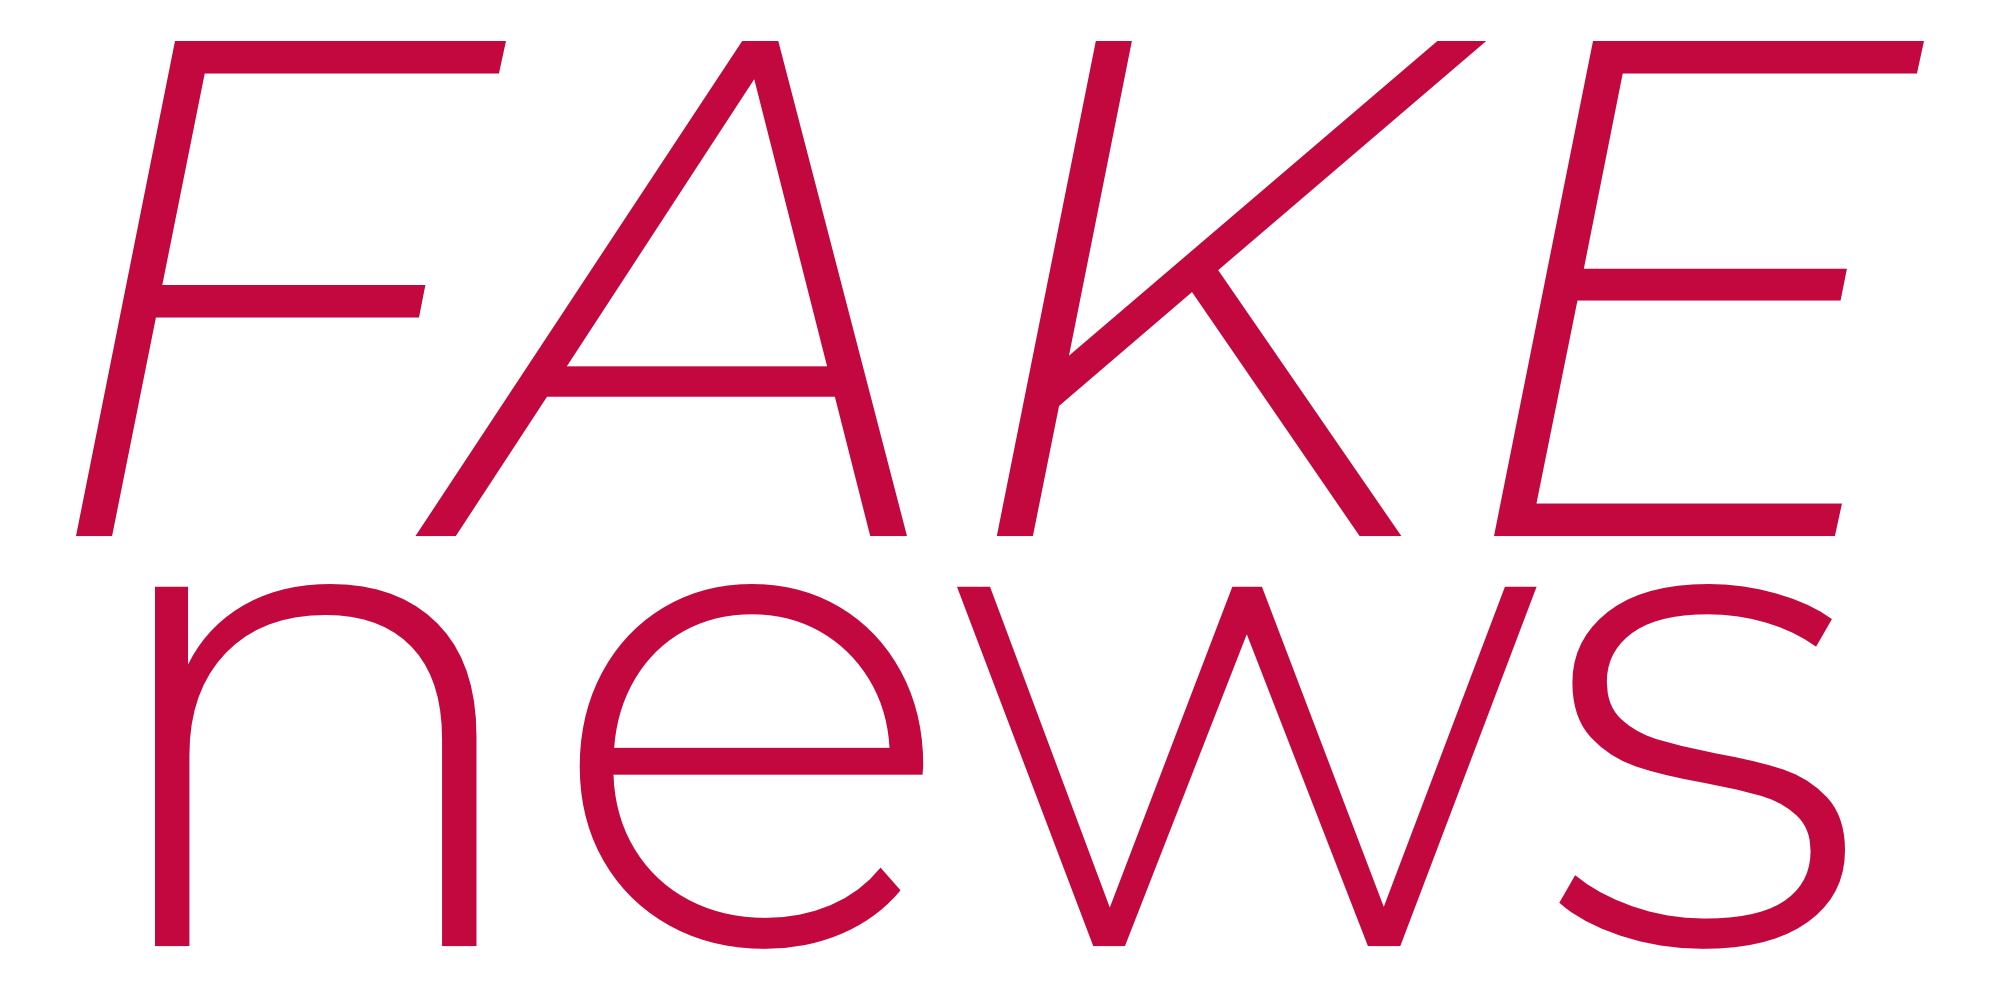
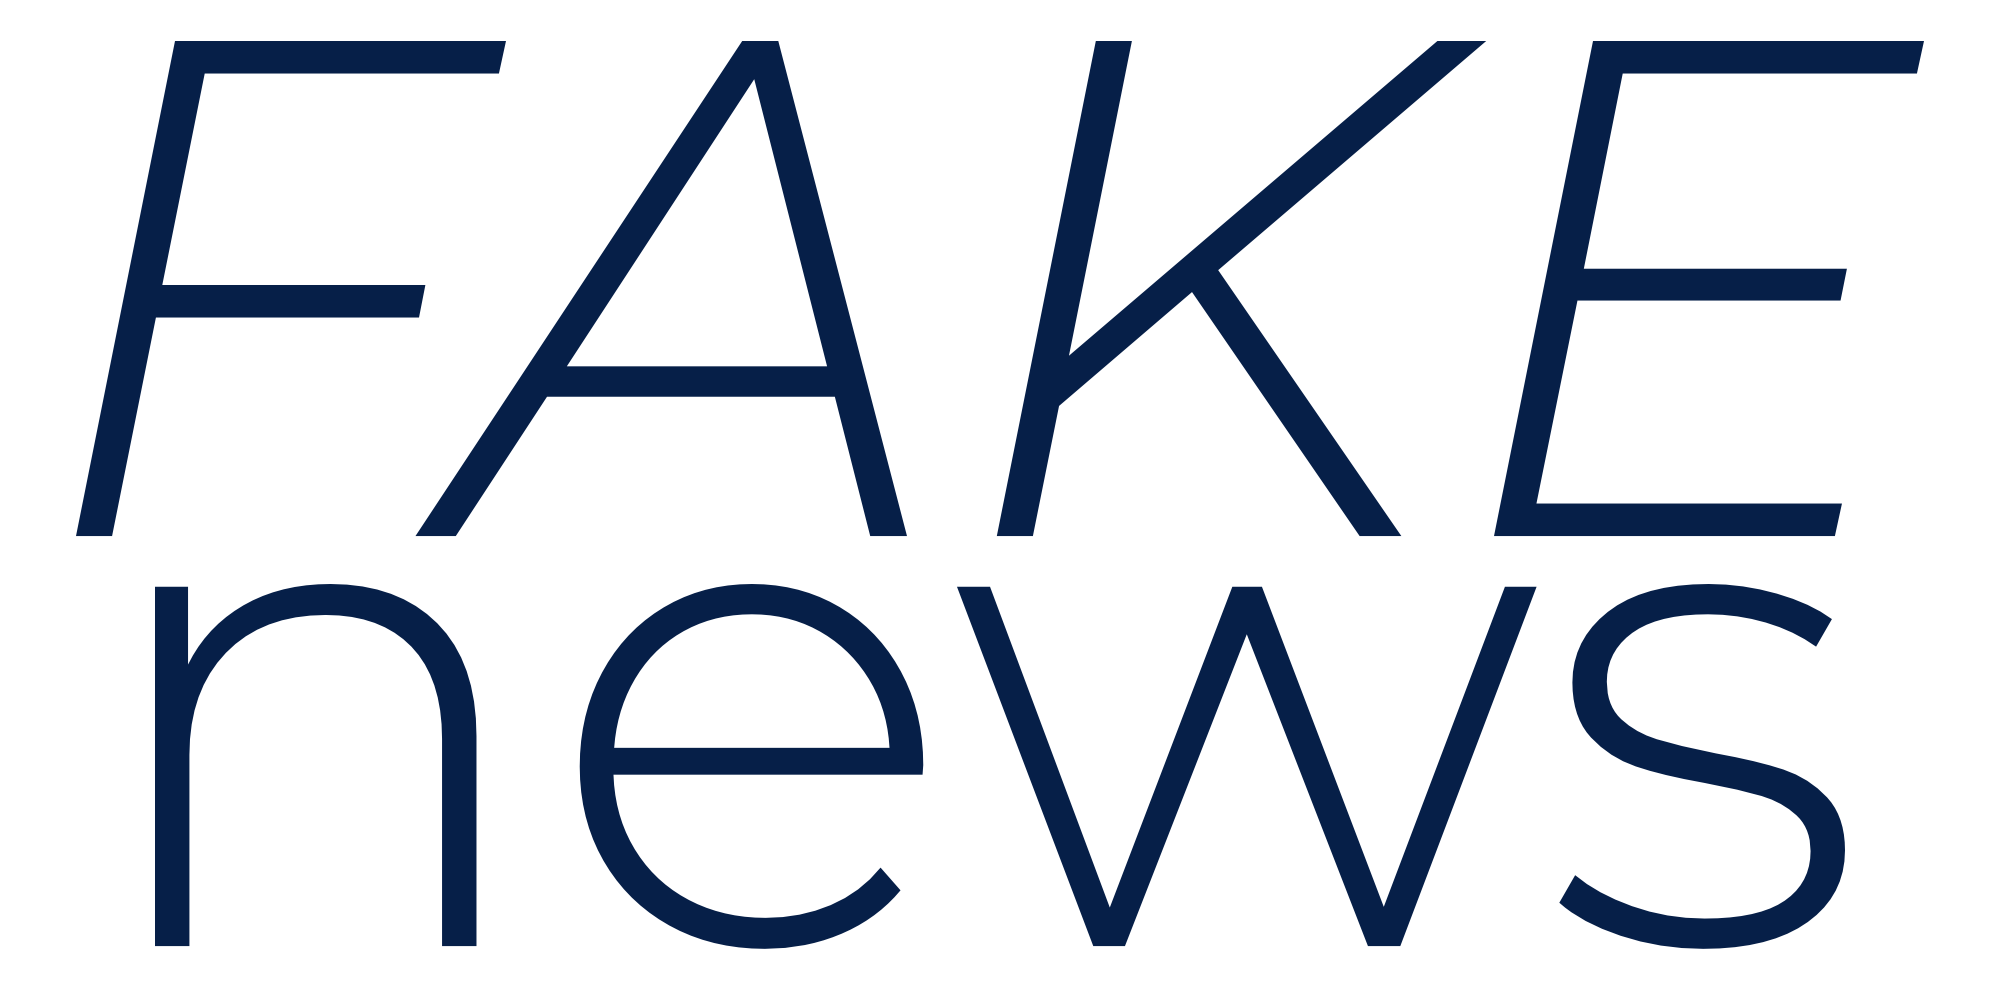
2

diff --git a/about.html b/about.html
@@ -6,7 +6,7 @@
 <title>About | Fake News</title>
 <style type = "text/css">
 
-p {color:#fff;}
+p {color:#061f48;}
 
 </style>
 
@@ -15,56 +15,58 @@ p {color:#fff;}
 <link rel="stylesheet" href="https://fonts.google.com/specimen/Hind?preview.text_type=custom&preview.size=36#standard-styles">
 
 <style>
-  h1 {text-align: left;}
-  h2 {
-    text-align: left;
-    font-family: 'Hind', sans-serif;
-    margin-left: 25%;
-  }
-  h3 {text-align: center;}
-  .text-justify {text-align: left;}
-  p {
-    text-align: left;
-    font-size: 20px;
-    font-weight: lighter;
-    font-family: 'Hind', sans-serif;
-    width: 50%;
-    margin-left: 25%;
-  }
-  .site-footer p {
-    text-align: center;}
-  .copyright-text {margin-left: 25%;}
-
-  .AboutUsImage 
-  {
-    margin-left: 25%;
-    padding-top: 70px;
-  }
-
 
   .button3 {
-    text-align: center;
-    text-decoration: none;
-    display: inline-block;
-    font-size: 25px;
-    transition-duration: 0.4s;
-    cursor: pointer;
-    padding: 2%;
-    width: 20%;
-
-    background-color: #C3073F;
-    color: #fff;
-    border: 2px solid #C3073F;
-    border-radius: 10px;
-  }
-
-  .button3:hover {
-    background-color: #c3073f69;
-    color: rgba(255, 255, 255, 0.733);
-    border: 0px;
-  }
-
-</style>
+      border:#061f48;
+      color: white;
+      text-align: center;
+      text-decoration: none;
+      display: inline-block;
+      font-size: 25px;
+      transition-duration: 0.4s;
+      cursor: pointer;
+      padding: 2%;
+      width: 20%;
+      background-color: #061f48;
+      border-radius: 10px;
+    }
+  
+    .button2 {
+      margin-left: 40%;
+      border: white;
+      color: #061f48;
+      text-align: center;
+      text-decoration: none;
+      display: inline-block;
+      font-size: 25px;
+      transition-duration: 0.4s;
+      cursor: pointer;
+      padding: 2%;
+      width: 20%;
+    }
+    
+    .button2 {
+      background-color:#061f48;
+      color: #fff;
+      border-radius: 10px;
+    }
+    
+    .button2:hover {
+      background-color: #ffffff;
+      color: #061f48;
+      border: #061f48;
+    }
+  
+    .button3:hover {
+      background-color: #ffffff;
+      color: #061f48;
+      border: #061f48;
+    }
+    
+    .HomeNewImage {margin-left: 25%;}
+    .copyright-text {margin-left: 25%;}
+  
+  </style>
 
 </head>
 <body>
@@ -106,9 +108,9 @@ p {color:#fff;}
     </script>
   </div>
 
-<div id = "hero">
+<div class="hero-div" id = "hero">
 
-<img src="images/slice1.png" width="100%" alt = "Hero Image" />
+<img class="hero-image" src="images/slice1.png" width="100%" alt = "Hero Image" />
 
 </div> <!--end of hero image-->
 

diff --git a/css/style.css b/css/style.css
@@ -75,12 +75,14 @@ body {
   margin: 0;
   padding: 0;
   background: #ebebeb;
-  color: #fff;
+  color: #061f48;
   display: -webkit-box;
   display: -webkit-flex;
   display: -ms-flexbox;
   display: flex;
   min-height: 100vh;
+  width: 80%;
+  margin: auto;
 }
 .container {
   margin: 0 auto;
@@ -89,7 +91,7 @@ body {
 }
 h3 {
   font-size: 3rem;
-  color: #fff;
+  color: #061f48;
   padding: 1.3rem;
   margin: 0;
   text-align: center;
@@ -213,7 +215,7 @@ input[type="checkbox"] {
 
 /* Style the submit button */
 input[type="submit"] {
-  background-color: #000080;
+  background-color: #061f48;
   color: white;
   border: none;
 }
@@ -315,7 +317,7 @@ body {
 }
 
 .site-footer {
-  background-color: #101010;
+  background-color: #061f48;
   margin-top: 60px;
   padding: 20px 0 20px;
   font-size: 15px;
@@ -360,7 +362,7 @@ body {
 }
 
 .container1 {
-  background-color: #101010;
+  background-color: #061f48;
 }
 
 .text-justify {

diff --git a/index.html b/index.html
@@ -69,9 +69,9 @@ p {color:#061f48;}
 
 
 
-<div id = "hero">
+<div class="hero-div" id = "hero">
 
-<img src="images/slice1.png" width="100%" alt = "Hero Image" />
+  <img class="hero-image" src="images/slice1.png" alt = "Hero Image" />
 
 </div> <!--end of hero image-->
 
